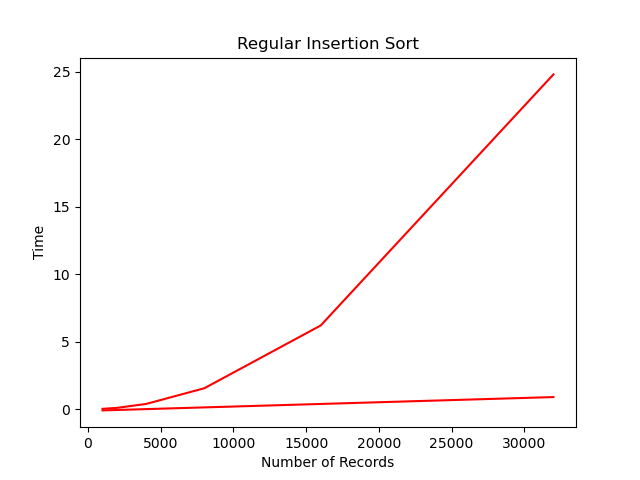
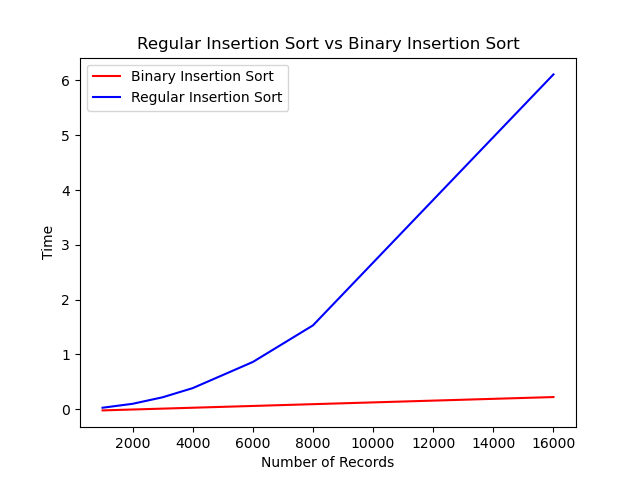
exercise 6 and updates

diff --git a/ex6.py b/ex6.py
@@ -1,0 +1,115 @@
+import timeit 
+import random
+from matplotlib import pyplot as plt
+import numpy as np
+from scipy.optimize import curve_fit
+import sys
+sys.setrecursionlimit(200000000)
+
+def partition(array, low, high):
+    pivot = array[high]
+ 
+    i = low - 1
+ 
+    for j in range(low, high):
+        if array[j] <= pivot:
+            i = i + 1
+ 
+            (array[i], array[j]) = (array[j], array[i])
+ 
+    (array[i + 1], array[high]) = (array[high], array[i + 1])
+ 
+    return i + 1
+  
+ 
+def quicksort(array, low, high):
+    if low < high:
+
+        pi = partition(array, low, high)
+        quicksort(array, low, pi - 1)
+        quicksort(array, pi + 1, high)
+
+def linear_search(arr, target):
+    for i in range(len(arr)):
+        if arr[i] == target:
+            return i  # Return the index of the target if found
+    return -1  # Return -1 if the target is not in the list
+
+def binary_search(arr, target):
+    left = 0 
+    right = len(arr) - 1
+    while left <= right:
+        mid = (left + right) // 2  # Calculate the middle index
+        if arr[mid] == target:
+            return mid  # Return the index of the target if found
+        elif arr[mid] < target:
+            left = mid + 1  # Search in the right half
+        else:
+            right = mid - 1  # Search in the left half
+    return -1  # Return -1 if the target is not in the list
+
+def binary_search_and_quicksort(arr, target):
+    quicksort(arr, 0 ,len(arr)-1)
+    binary_search(arr,target)
+
+
+if __name__ == "__main__":
+
+    arr = [k for k in range(1000)]
+    target = random.randint(0,999)
+    linearTimes = []
+    binaryTimes = []
+    for i in range(0,100):
+        random.shuffle(arr)
+        tm = timeit.timeit("linear_search(arr, target)", setup="from __main__ import linear_search, arr, target", number=50)            
+        linearTimes.append(tm/50)
+
+        tm = timeit.timeit("binary_search_and_quicksort(arr, target)", setup="from __main__ import binary_search_and_quicksort, arr, target", number=50)                        
+        binaryTimes.append(tm/50)
+
+    print("Average time for binary serach time is", sum(binaryTimes)/ len(binaryTimes))
+    print("Average time for Linear serach time is", sum(linearTimes)/ len(linearTimes), "\n")
+
+
+    #3
+    vectorSizes = [10,20,50,100,200,500,1000,2000,5000,10000]
+    binaryTimes = []
+    linearTimes = []
+
+    for x in vectorSizes:
+        arr = [k for k in range(x)]
+        target = random.randint(0,x - 1)
+        rezLinear = []
+        rezBinary = []
+        for i in range(0,100):
+            random.shuffle(arr)
+            tm = timeit.timeit("linear_search(arr, target)", setup="from __main__ import linear_search, arr, target", number=1)            
+            rezLinear.append(tm)
+
+            tm = timeit.timeit("binary_search_and_quicksort(arr, target)", setup="from __main__ import binary_search_and_quicksort, arr, target", number=1)                        
+            rezBinary.append(tm)
+
+        binaryTimes.append(sum(rezBinary)/ len(rezBinary))
+        linearTimes.append(sum(rezLinear)/ len(rezLinear))
+
+
+    slope, intercept = np.polyfit(vectorSizes, binaryTimes, 1)
+    linevalues = [slope * x + intercept for x in vectorSizes]
+    plt.scatter(vectorSizes,binaryTimes, c='b')
+    plt.plot(vectorSizes, linevalues, 'b', label="Binary Search")
+
+    slope, intercept = np.polyfit(vectorSizes, linearTimes, 1)
+    linevalues = [slope * x + intercept for x in vectorSizes]
+    plt.scatter(vectorSizes,linearTimes, c='r')
+    plt.plot(vectorSizes, linevalues, 'r', label="Linear Search")
+
+    # Save the plot to a file named output.5.3.2.png
+    plt.xlabel('Number of Records')
+    plt.ylabel('Time')
+    plt.title('Comparison Between Linear and Binary Search')
+    plt.legend()
+    plt.savefig('output.6.4.png')
+
+    #4. 
+    #It looks like the Linear search is the faster algorithm.
+

diff --git a/ex6_worst.py b/ex6_worst.py
@@ -1,0 +1,99 @@
+import timeit 
+import random
+from matplotlib import pyplot as plt
+import numpy as np
+from scipy.optimize import curve_fit
+import sys
+sys.setrecursionlimit(1500)
+
+def partition(array, low, high):
+    pivot = array[high]
+ 
+    i = low - 1
+ 
+    for j in range(low, high):
+        if array[j] <= pivot:
+            i = i + 1
+ 
+            (array[i], array[j]) = (array[j], array[i])
+ 
+    (array[i + 1], array[high]) = (array[high], array[i + 1])
+ 
+    return i + 1
+  
+ 
+def quicksort(array, low, high):
+    if low < high:
+
+        pi = partition(array, low, high)
+        quicksort(array, low, pi - 1)
+        quicksort(array, pi + 1, high)
+
+def linear_search(arr, target):
+    for i in range(len(arr)):
+        if arr[i] == target:
+            return i  # Return the index of the target if found
+    return -1  # Return -1 if the target is not in the list
+
+def binary_search_quicksort(arr, target):
+    quicksort(arr, 0 ,len(arr)-1)
+    binary_search(arr,target)
+
+def binary_search(arr, target):
+    left = 0 
+    right = len(arr) - 1
+    while left <= right:
+        mid = (left + right) // 2  # Calculate the middle index
+        if arr[mid] == target:
+            return mid  # Return the index of the target if found
+        elif arr[mid] < target:
+            left = mid + 1  # Search in the right half
+        else:
+            right = mid - 1  # Search in the left half
+    return -1  # Return -1 if the target is not in the list
+
+
+
+if(__name__ == "__main__"):
+    #5
+    vectorSizes = [10,20,50,100,200,500,1000]
+    binaryTimes = []
+    linearTimes = []
+
+    for x in vectorSizes:
+        arr = [k for k in range(x,0,-1)]
+        target = random.randint(0,x - 1)
+        rezLinear = []
+        rezBinary = []
+        for i in range(0,1):
+
+            tm = timeit.timeit("linear_search(arr, target)", setup="from __main__ import linear_search, arr, target", number=1)            
+            rezLinear.append(tm)
+
+            tm = timeit.timeit("binary_search_quicksort(arr.copy(), target)", setup="from __main__ import binary_search_quicksort, arr, target", number=1)                        
+            rezBinary.append(tm)
+
+        binaryTimes.append(sum(rezBinary)/ len(rezBinary))
+        linearTimes.append(sum(rezLinear)/ len(rezLinear))
+
+        print("Binary search time for", x, "is", sum(rezBinary)/ len(rezBinary))
+        print("Linear search time for", x, "is", sum(rezLinear)/ len(rezLinear), "\n")
+
+    def quad(x, a, b):
+        return a*np.power(x,2) + b
+    constants = curve_fit(quad, vectorSizes, binaryTimes)
+    linevalues = [constants[0][0] * np.power(x,2) + constants[0][1] for x in vectorSizes]
+    plt.scatter(vectorSizes,binaryTimes, c='b')
+    plt.plot(vectorSizes, linevalues, 'b', label="Binary Search")
+
+    slope, intercept = np.polyfit(vectorSizes, linearTimes, 1)
+    linevalues = [slope * x + intercept for x in vectorSizes]
+    plt.scatter(vectorSizes,linearTimes, c='r')
+    plt.plot(vectorSizes, linevalues, 'r', label="Linear Search")
+
+    # Save the plot to a file named output.5.3.2.png
+    plt.xlabel('Number of Records')
+    plt.ylabel('Time')
+    plt.title('Comparison Between Linear and Binary Search (Worst Case QuickSort)')
+    plt.legend()
+    plt.savefig('output.6.5.png')

diff --git a/ex5.py b/ex5.py
@@ -61,7 +61,7 @@ def insertionSort(arr, n):
         arr[j+1]= key
     return arr
 
-vector_sizes = [1000, 2000, 4000, 8000, 16000, 32000]
+vector_sizes = [1000, 2000, 3000, 4000, 6000, 8000, 16000]
 binaryTimes = []
 regularTimes = []
 sizes = []
@@ -80,7 +80,7 @@ def linear(x, a, b):
     return a*x + b
 constants = curve_fit(linear, sizes, binaryTimes)
 linevalues = [constants[0][0] * x + constants[0][1] for x in vector_sizes]
-plt.plot(vector_sizes, linevalues, 'r')
+plt.plot(vector_sizes, linevalues, 'r', label="Binary Insertion Sort")
 
 # Save the plot to a file named output.5.3.1.png
 plt.xlabel('Number of Records')
@@ -91,12 +91,13 @@ def quad(x, a, b):
     return a*np.power(x,2) + b
 constants = curve_fit(quad, sizes, regularTimes)
 linevalues = [constants[0][0] * np.power(x,2) + constants[0][1] for x in vector_sizes]
-plt.plot(vector_sizes, linevalues, 'r')
+plt.plot(vector_sizes, linevalues, 'b', label="Regular Insertion Sort")
 
 # Save the plot to a file named output.5.3.2.png
 plt.xlabel('Number of Records')
 plt.ylabel('Time')
-plt.title('Regular Insertion Sort')
+plt.title('Regular Insertion Sort vs Binary Insertion Sort')
+plt.legend()
 plt.savefig('output.5.3.png')
 
 

diff --git a/ex4.py b/ex4.py
@@ -20,5 +20,6 @@ def partition(arr, low, high):
         if right < left:
             done = True
         else:
-            arr[left], arr[right] = arr[right], arr[left], arr[low], arr[right] = arr[right], arr[low]
-        return right
+            arr[left], arr[right] = arr[right], arr[left], 
+    arr[low], arr[right] = arr[right], arr[low]
+    return right
